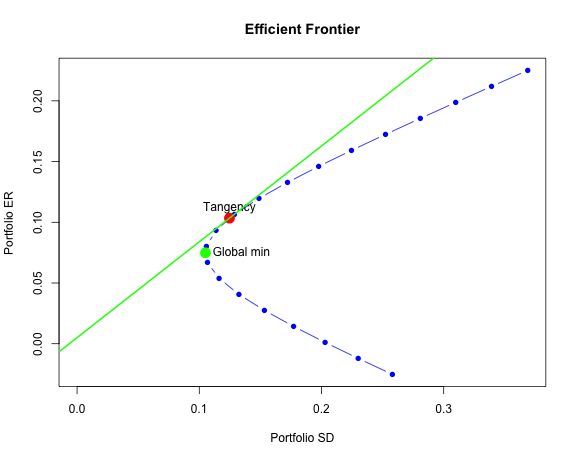
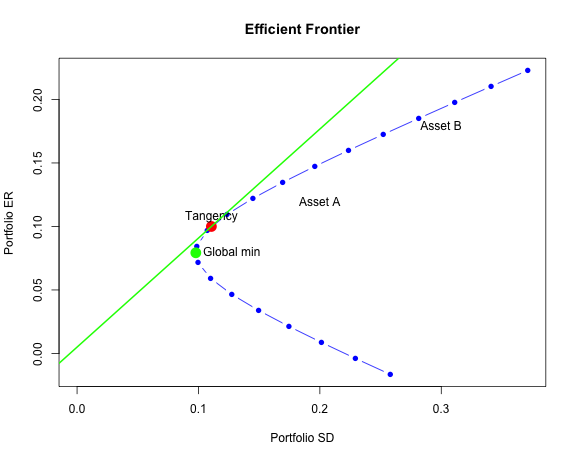
post update

diff --git a/Slides/ptf_opt.html b/Slides/ptf_opt.html
@@ -4,7 +4,7 @@
     <title>Portfolio Optimization</title>
     <meta charset="utf-8" />
     <meta name="author" content="Instructor: Menghan Yuan" />
-    <script src="libs/header-attrs-2.29/header-attrs.js"></script>
+    <script src="libs/header-attrs-2.30/header-attrs.js"></script>
     <script src="libs/mark.js-8.11.1/mark.min.js"></script>
     <link href="libs/xaringanExtra-search-0.0.1/search.css" rel="stylesheet" />
     <script src="libs/xaringanExtra-search-0.0.1/search.js"></script>
@@ -581,7 +581,7 @@ class: inverse, center, middle
   ## getPortfolio(er = mu.vec, cov.mat = sigma2.mat, weights = ew)
   ## 
   ## Portfolio expected return:     0.115 
-  ## Portfolio standard deviation:  0.1412766 
+  ## Portfolio standard deviation:  0.1323416 
   ## Portfolio weights:
   ## Asset A Asset B 
   ##     0.5     0.5
@@ -607,11 +607,11 @@ gmv.port
 ## Call:
 ## globalMin.portfolio(er = mu.vec, cov.mat = sigma2.mat)
 ## 
-## Portfolio expected return:     0.07486614 
-## Portfolio standard deviation:  0.1050691 
+## Portfolio expected return:     0.0792503 
+## Portfolio standard deviation:  0.09782172 
 ## Portfolio weights:
 ## Asset A Asset B 
-##  0.1656  0.8344
+##  0.2021  0.7979
 ```
 
 - If short sales are not allowed, then set `shorts = FALSE`.
@@ -661,11 +661,11 @@ tan.port
 ## Call:
 ## tangency.portfolio(er = mu.vec, cov.mat = sigma2.mat, risk.free = rf)
 ## 
-## Portfolio expected return:     0.1034 
-## Portfolio standard deviation:  0.1246921 
+## Portfolio expected return:     0.09998087 
+## Portfolio standard deviation:  0.110638 
 ## Portfolio weights:
 ## Asset A Asset B 
-##  0.4033  0.5967
+##  0.3748  0.6252
 ```
 
 
@@ -676,7 +676,7 @@ cat("Sharpe ratio of Tangency portfolio:\n")
 
 ```
 ## Sharpe ratio of Tangency portfolio:
-## [1] 0.7891
+## [1] 0.8585
 ```
 ]
 
@@ -712,9 +712,12 @@ ef
 ##     alpha.min = -0.5, alpha.max = 2)
 ## 
 ## Frontier portfolios' expected returns and standard deviations
-##    port 1 port 2 port 3 port 4 port 5 port 6 port 7 port 8 port 9 port 10 port 11 port 12 port 13 port 14 port 15 port 16 port 17 port 18 port 19 port 20
-## ER 0.2251 0.2119 0.1987 0.1855 0.1724 0.1592 0.1460 0.1328 0.1197  0.1065  0.0933  0.0801  0.0670  0.0538  0.0406  0.0274  0.0143  0.0011 -0.0121 -0.0253
-## SD 0.3687 0.3391 0.3098 0.2808 0.2523 0.2245 0.1977 0.1722 0.1488  0.1288  0.1137  0.1058  0.1067  0.1162  0.1324  0.1533  0.1771  0.2029  0.2300  0.2580
+##    port 1 port 2 port 3 port 4 port 5 port 6 port 7 port 8 port 9 port 10 port 11 port 12 port 13 port 14 port 15
+## ER 0.2229 0.2103 0.1977 0.1851 0.1725 0.1599 0.1473 0.1347 0.1221  0.1095  0.0969  0.0843  0.0717  0.0591  0.0465
+## SD 0.3712 0.3410 0.3111 0.2814 0.2522 0.2236 0.1958 0.1693 0.1448  0.1235  0.1073  0.0986  0.0996  0.1100  0.1274
+##    port 16 port 17 port 18 port 19 port 20
+## ER  0.0339  0.0213  0.0087 -0.0039 -0.0165
+## SD  0.1495  0.1745  0.2013  0.2292  0.2580
 ```
 
 - ER: expected return

diff --git a/Slides/libs/header-attrs-2.30/header-attrs.js b/Slides/libs/header-attrs-2.30/header-attrs.js
@@ -1,0 +1,12 @@
+// Pandoc 2.9 adds attributes on both header and div. We remove the former (to
+// be compatible with the behavior of Pandoc < 2.8).
+document.addEventListener('DOMContentLoaded', function(e) {
+  var hs = document.querySelectorAll("div.section[class*='level'] > :first-child");
+  var i, h, a;
+  for (i = 0; i < hs.length; i++) {
+    h = hs[i];
+    if (!/^h[1-6]$/i.test(h.tagName)) continue;  // it should be a header h1-h6
+    a = h.attributes;
+    while (a.length > 0) h.removeAttribute(a[0].name);
+  }
+});
